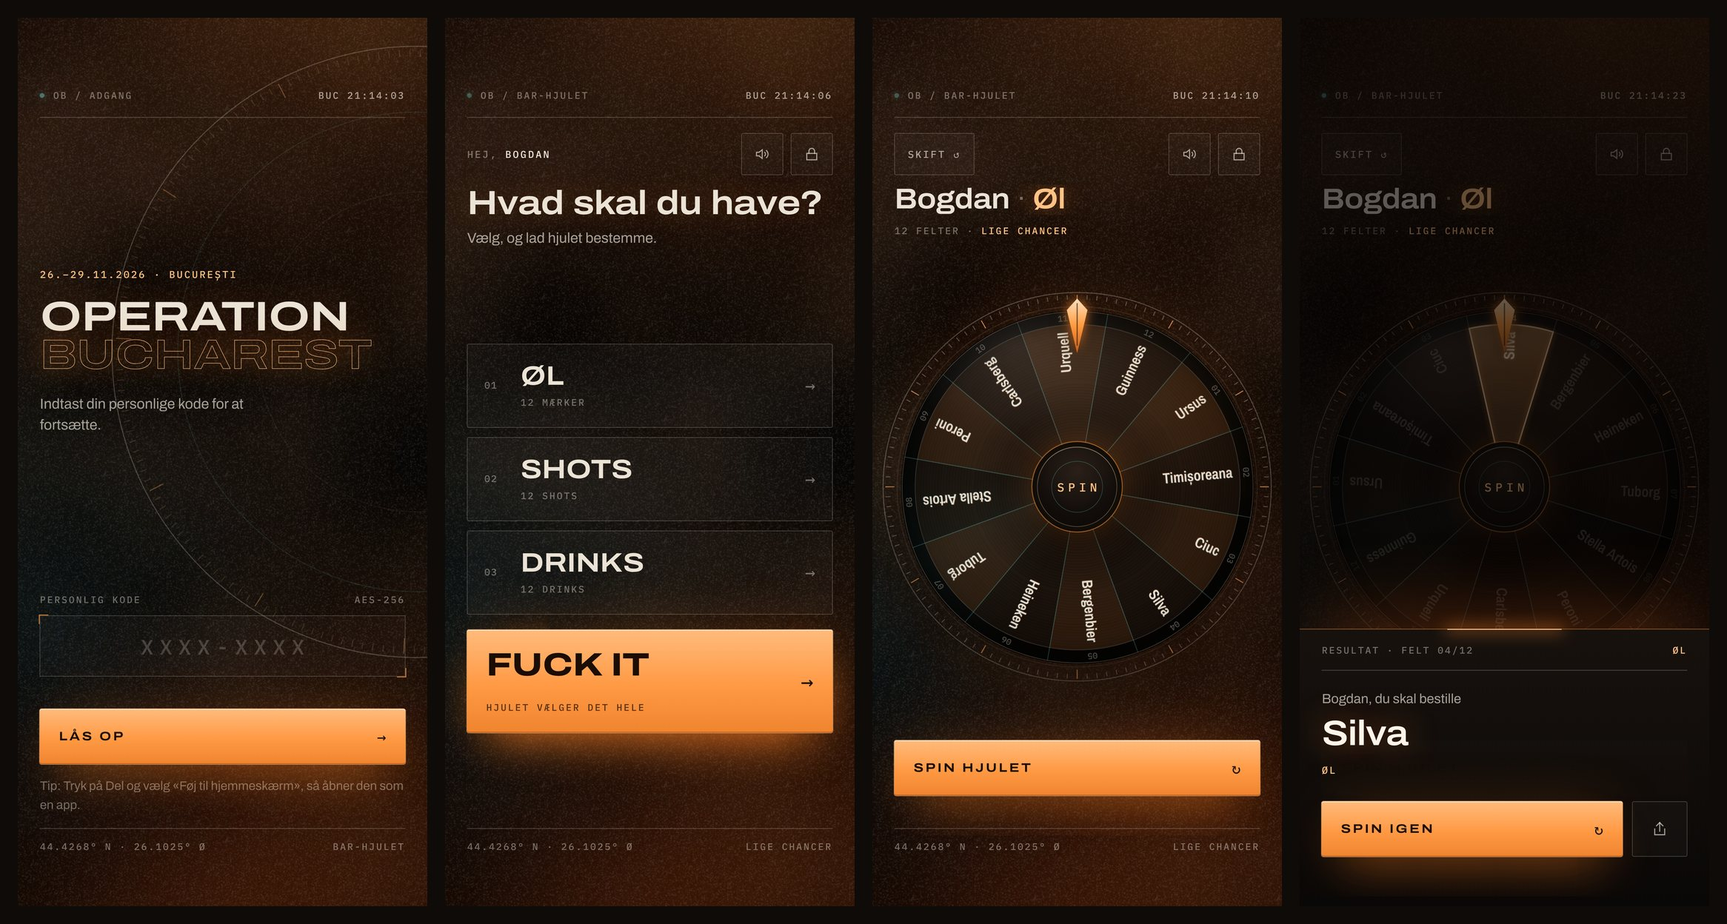
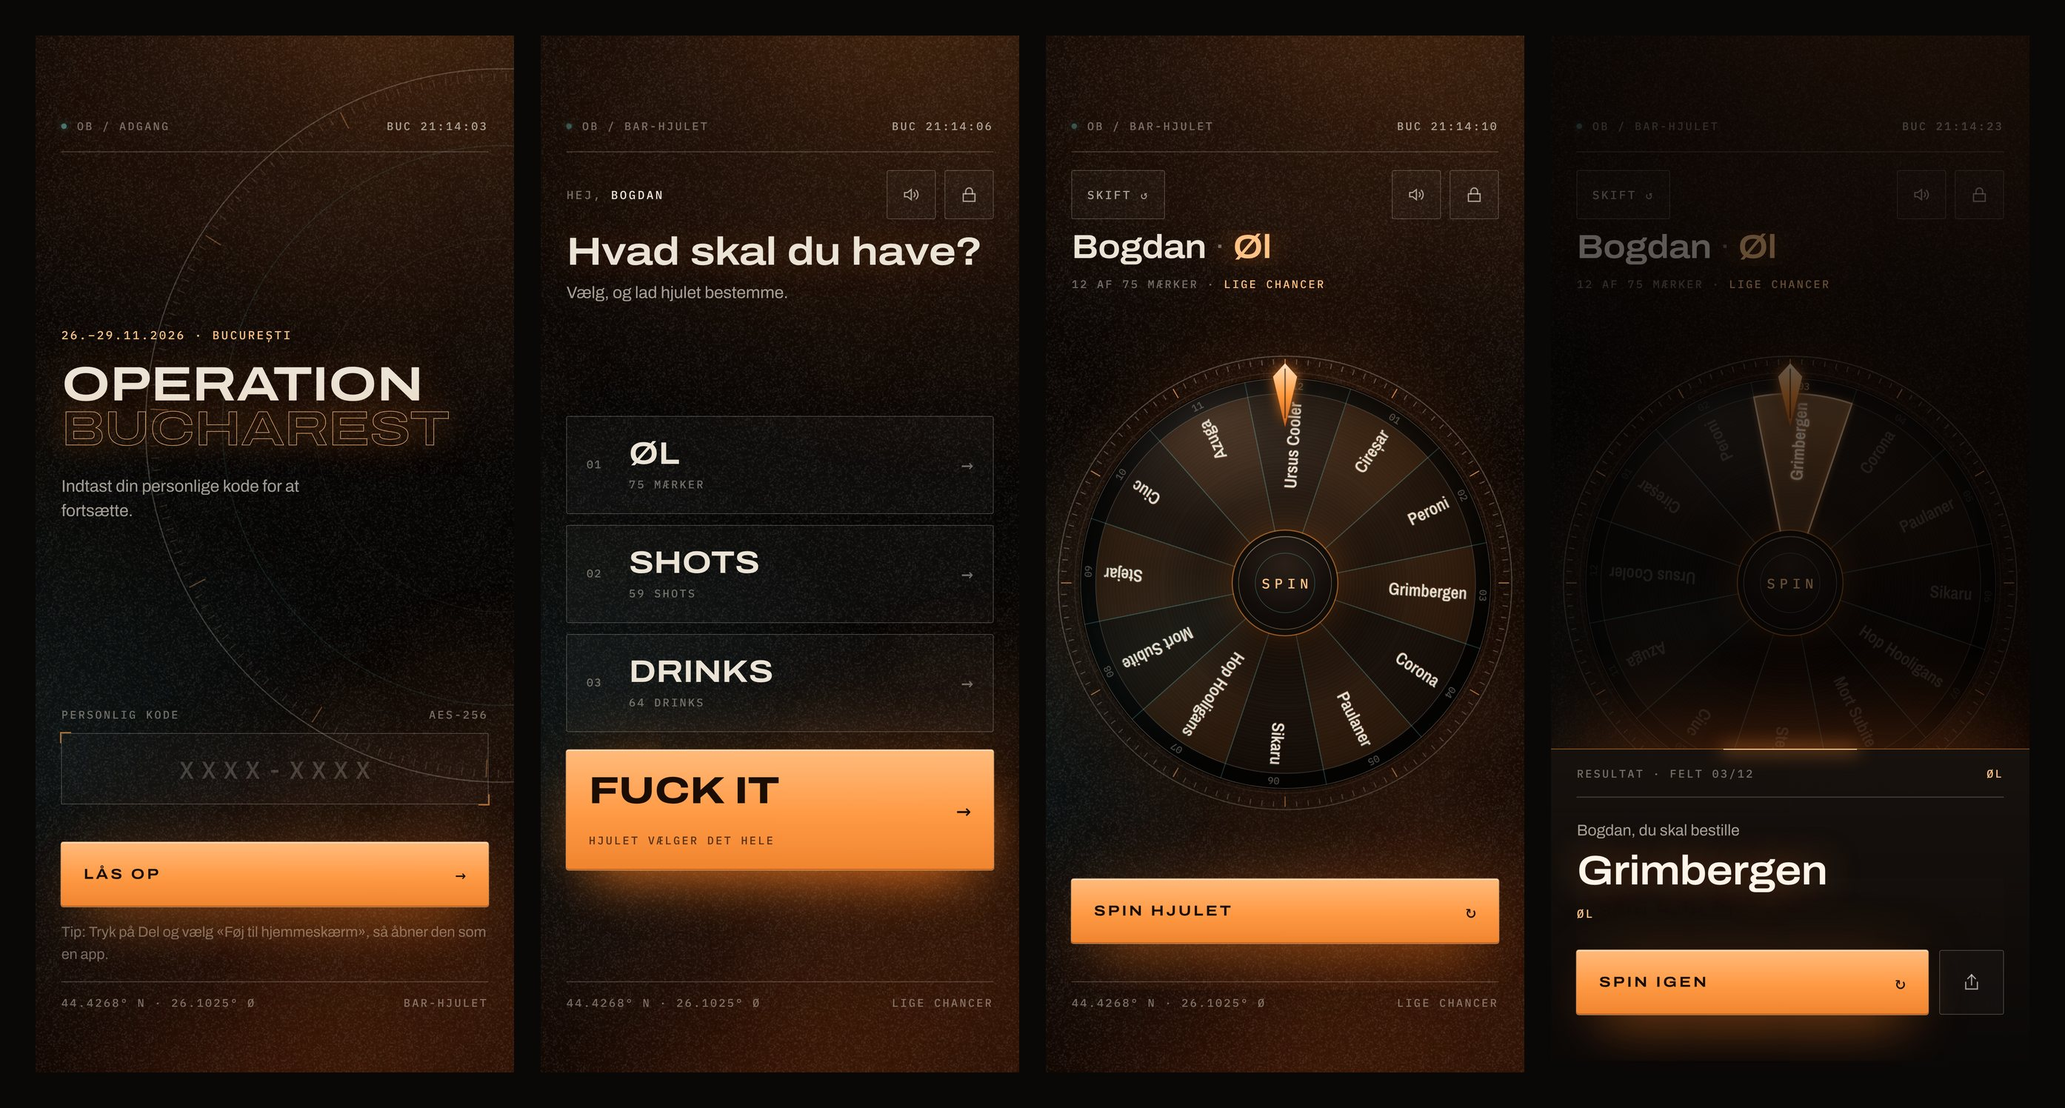
v3: bar wheel draws 12 from each pool (75 beers, 59 shots, 64 drinks)
- menu.js: the three pools from the spec, with perWheel 12 and a unit per
  category; the choice screen counts come from the pool size.
- Every new wheel and every Spin igen draws 12 different items from the
  pool (crypto.getRandomValues), then spins fairly over those 12. Spin igen
  cross-fades the labels (~250 ms) and spins straight away.
- A new wheel avoids that person's last 3 results in the category
  (localStorage ob_hist, per person number).
- Fuck it: stage 2 draws 12 from the chosen category's pool.
- Status line: "12 af 75 mærker · lige chancer".
- OB_SIM console checks: spins(), draws(), fuckit(), wheel().
- Screenshots updated.

Claude-Session: https://claude.ai/code/session_01LwMVCugT5aRpNgCrjQDK6n

diff --git a/index.html b/index.html
@@ -342,6 +342,9 @@
     /* swapping the wheel's contents (Fuck it: category wheel -> item wheel) */
     #wheel { transition: opacity .26s var(--ease), scale .34s var(--ease); }
     #wheel.swap-out { opacity: 0; scale: .86; }
+    /* Spin igen: the old draw fades out over the new one */
+    #wheelSnap { pointer-events: none; opacity: 0; }
+    #wheelSnap.fade { transition: opacity .25s ease; }
     .sr { position: absolute; width: 1px; height: 1px; overflow: hidden; clip: rect(0 0 0 0); white-space: nowrap; }
 
     /* Short screens: give the wheel the room */
@@ -462,6 +465,7 @@
             <div class="halo" id="halo"></div>
             <div class="bezel" id="bezel" aria-hidden="true"></div>
             <canvas class="disc" id="wheel" aria-hidden="true"></canvas>
+            <canvas class="disc" id="wheelSnap" aria-hidden="true" width="0" height="0"></canvas>
             <div class="disc glass"></div>
             <div class="disc shimmer"></div>
             <div class="disc flash"></div>
@@ -514,7 +518,7 @@
       set(k, v) { try { localStorage.setItem(k, v); } catch (e) {} },
       del(k) { try { localStorage.removeItem(k); } catch (e) {} }
     };
-    const KEY_CODE = 'ob_code', KEY_SOUND = 'ob_sound', KEY_MODE = 'ob_mode';
+    const KEY_CODE = 'ob_code', KEY_SOUND = 'ob_sound', KEY_MODE = 'ob_mode', KEY_HIST = 'ob_hist';
     const TAU = Math.PI * 2;
     const mod = (a, n) => ((a % n) + n) % n;
     const pad = (n, l = 2) => String(n).padStart(l, '0');
@@ -524,15 +528,53 @@
     function haptic(p = 10) { try { if (navigator.vibrate) navigator.vibrate(p); } catch (e) {} }
     function rand() { const a = new Uint32Array(1); crypto.getRandomValues(a); return a[0] / 4294967296; }
 
-    // ── Menu (menu.js): the lists; "Fuck it" is a mode that uses all of them ──
+    // ── Menu (menu.js): one pool per category; "Fuck it" is a mode that uses all of them ──
     const item = x => typeof x === 'string' ? { name: x, wheel: x } : { name: String(x.name), wheel: String(x.wheel || x.name) };
     const MODES = (M && Array.isArray(M.modes) ? M.modes : []).map(m => {
-      const items = (m.items || []).map(item), sub = String(m.sub || '');
-      return { id: String(m.id), name: String(m.name), items, sub: /^\d+/.test(sub) ? sub.replace(/^\d+/, items.length) : `${items.length} ${sub}`.trim() };
+      const items = (m.items || []).map(item);
+      return { id: String(m.id), name: String(m.name), items, sub: `${items.length} ${String(m.unit || '')}`.trim() };   // "75 mærker"
     });
     const FUCKIT = { id: 'fuckit', name: 'Fuck it' };
     const PEOPLE = (M && M.people) || 5;
+    const PER = Math.max(2, Math.min(16, Math.round(Number(M && M.perWheel)) || 12));   // slices per wheel
     const catItems = () => MODES.map(m => ({ name: m.name, wheel: m.name }));
+
+    // ── Fair draws (crypto.getRandomValues) ──
+    const pickSlice = n => Math.floor(rand() * n);                       // every slice equally likely
+    function landing(idx, n, from, turns) {                              // a stop well inside slice idx (0.18–0.82 of it)
+      const seg = 360 / n, p = (idx + .18 + rand() * .64) * seg;
+      return from + 360 * turns + mod(-p - from, 360);
+    }
+    const sliceUnder = (r, n) => Math.floor(mod(-r, 360) / (360 / n)) % n;
+    function sample(list, k) {                                           // k different items, in random order
+      const a = list.slice(); k = Math.min(k, a.length);
+      for (let i = 0; i < k; i++) { const j = i + Math.floor(rand() * (a.length - i)); [a[i], a[j]] = [a[j], a[i]]; }
+      return a.slice(0, k);
+    }
+    // The 12 slices for one wheel: drawn from the pool, skipping the names in `avoid` where the pool allows it.
+    // A pool of 12 or fewer is shown whole, in menu order.
+    function drawFrom(m, avoid = []) {
+      if (m.items.length <= PER) return m.items;
+      const fresh = m.items.filter(x => !avoid.includes(x.name));
+      if (fresh.length >= PER) return sample(fresh, PER);
+      return sample(fresh.concat(sample(m.items.filter(x => avoid.includes(x.name)), PER - fresh.length)), PER);
+    }
+    // This person's last 3 results per category (localStorage, so a new wheel avoids them)
+    function readHist() {
+      try { const h = JSON.parse(store.get(KEY_HIST) || '{}'); return h && typeof h === 'object' && !Array.isArray(h) ? h : {}; }
+      catch (e) { return {}; }
+    }
+    function lastNames(catId) {
+      const me = player && readHist()[player.p], l = me && me[catId];
+      return Array.isArray(l) ? l.filter(x => typeof x === 'string').slice(0, 3) : [];
+    }
+    function remember(catId, name) {
+      if (!player) return;
+      const h = readHist(), me = h[player.p] && typeof h[player.p] === 'object' && !Array.isArray(h[player.p]) ? h[player.p] : {};
+      me[catId] = [name, ...lastNames(catId).filter(x => x !== name)].slice(0, 3);
+      h[player.p] = me; store.set(KEY_HIST, JSON.stringify(h));
+    }
+    const drawItems = m => drawFrom(m, lastNames(m.id));
 
     // ── Bucharest clock: just a readout ──
     let clockFmt = null;
@@ -747,9 +789,9 @@
 
     // ── Wheel ──
     let player = null, mode = null, fkCat = null, wheelKind = 'items', places = [], N = 0, SEG = 0;
-    let rot = 0, busy = false, highlight = -1, lastResult = null, raf = 0, resultTimer = 0, runId = 0;
+    let rot = 0, busy = false, highlight = -1, lastResult = null, raf = 0, resultTimer = 0, runId = 0, spent = false;
     const recent = [];
-    const canvas = $('wheel'), ctx = canvas.getContext('2d'), stage = $('stage'), halo = $('halo');
+    const canvas = $('wheel'), ctx = canvas.getContext('2d'), stage = $('stage'), halo = $('halo'), snap = $('wheelSnap');
     const LABEL_FONT = s => `600 ${s}px "Archivo Narrow", "Arial Narrow", sans-serif`;
     const MONO_FONT = s => `500 ${s}px "IBM Plex Mono", ui-monospace, monospace`;
     const GEO = { hub: .235, labelIn: .262, labelOut: .885, band: .925 };
@@ -909,7 +951,7 @@
       }
     }
 
-    function sliceAt(r) { return Math.floor(mod(-r, 360) / SEG) % N; }
+    function sliceAt(r) { return sliceUnder(r, N); }
 
     // Heavy motion: slow wind-up, long glide out (cubic-bezier .3, 0, .08, 1)
     function bezier(x1, y1, x2, y2) {
@@ -931,10 +973,24 @@
 
     // Put a list on the wheel (any count; the label fit is recomputed for the new list)
     function setWheel(items, kind) {
-      places = items; N = places.length; SEG = 360 / N; wheelKind = kind; layout = null;
+      places = items; N = places.length; SEG = 360 / N; wheelKind = kind; layout = null; spent = false;
       highlight = -1; stage.classList.remove('won');
       stage.dataset.kind = kind;
       drawWheel();
+    }
+    // A new draw of items: the old wheel fades out over the new one, so the labels cross-fade (~250 ms)
+    async function crossfade(items) {
+      const same = items.length === N && items.every((x, i) => x === places[i]);
+      if (same || reducedMQ.matches || !canvas.width) { setWheel(items, 'items'); return; }
+      snap.width = canvas.width; snap.height = canvas.height;
+      snap.getContext('2d').drawImage(canvas, 0, 0);
+      snap.style.transform = canvas.style.transform;
+      snap.classList.remove('fade'); snap.style.opacity = '1';
+      setWheel(items, 'items');
+      void snap.offsetWidth;
+      snap.classList.add('fade'); snap.style.opacity = '0';
+      await wait(260);
+      snap.classList.remove('fade'); snap.width = snap.height = 0;
     }
     // Same, with a short fade/zoom (about 0.6 s)
     async function swapWheel(items, kind) {
@@ -959,9 +1015,8 @@
         const reduced = reducedMQ.matches;
         highlight = -1; stage.classList.remove('won'); drawWheel();
         stage.classList.add('spinning'); SFX.whoosh(); SFX.droneStart();
-        const idx = Math.floor(rand() * N);                     // fair: every slice equally likely
-        const p = (idx + .18 + rand() * .64) * SEG;              // landing point, well inside the slice
-        const start = rot, end = rot + 360 * turns + mod(-p - rot, 360);
+        const idx = pickSlice(N);                                // fair: every slice equally likely
+        const start = rot, end = landing(idx, N, rot, turns);    // stops well inside that slice
         const t0 = performance.now(), ease = reduced ? (t => 1 - Math.pow(1 - t, 3)) : EASE;
         let lastB = Math.floor(start / SEG), lastTick = 0, lastRot = start, lastT = t0;
         function frame(nowT) {
@@ -1003,13 +1058,14 @@
           toast(`→ ${fkCat.name}`, 1800);
           renderHead();
           await wait(reduced ? 250 : 650); if (id !== runId) return;
-          // Stage 2: that category's items, spun by itself
-          await swapWheel(fkCat.items, 'items'); if (id !== runId) return;
+          // Stage 2: 12 drawn from that category's pool, spun by itself
+          await swapWheel(drawItems(fkCat), 'items'); if (id !== runId) return;
           renderHead();
           const ii = await spinWheel(reduced ? 1500 : 5600 + rand() * 1000, reduced ? 1 : 3 + Math.floor(rand() * 2), id);
           if (id !== runId) return;
           done(ii, fkCat, true);
         } else {
+          if (spent) { await crossfade(drawItems(mode)); if (id !== runId) return; }   // never the same 12 twice
           const ii = await spinWheel(reduced ? 1500 : 7000 + rand() * 1200, reduced ? 1 : 4 + Math.floor(rand() * 2), id);
           if (id !== runId) return;
           done(ii, mode, false);
@@ -1018,9 +1074,10 @@
     }
 
     function done(idx, cat, fk) {
-      highlight = idx; drawWheel(); pulse();
+      highlight = idx; spent = true; drawWheel(); pulse();
       SFX.win(); haptic([20, 40, 20]);
       lastResult = { idx, n: N, place: places[idx], cat: cat.name, fk };
+      remember(cat.id, places[idx].name);
       recent.unshift(`${places[idx].name} (${cat.name})`); if (recent.length > 3) recent.pop();
       renderRecent();
       resultTimer = setTimeout(showResult, reducedMQ.matches ? 250 : 950);
@@ -1063,9 +1120,12 @@
       $('today').innerHTML = `<span class="d">${esc(player.n)}</span><span class="sep">·</span><span class="c">${esc(label)}</span>`;
       $('today').setAttribute('aria-label', `${player.n} · ${label}`);
       document.title = `${label} – Operation Bucharest`;
+      const cat = mode.id === FUCKIT.id ? fkCat : mode;
+      const k = cat && Math.min(PER, cat.items.length);                    // the item wheel's size, even before Fuck it swaps to it
+      const pool = cat && (cat.items.length > k ? `${k} af ${cat.sub}` : `${k} felter`);   // "12 af 75 mærker"
       $('status').innerHTML = mode.id === FUCKIT.id
-        ? (fkCat ? `Trin 2 af 2 · <span class="amb">${esc(fkCat.sub)}</span>` : 'Trin 1 af 2 · <span class="amb">hjulet vælger kategori</span>')
-        : `${N} felter · <span class="amb">lige chancer</span>`;
+        ? (fkCat ? `Trin 2 af 2 · <span class="amb">${esc(pool)}</span>` : 'Trin 1 af 2 · <span class="amb">hjulet vælger kategori</span>')
+        : `${esc(pool)} · <span class="amb">lige chancer</span>`;
       fitToday();
     }
 
@@ -1085,7 +1145,7 @@
       if (!m) return;
       closeResult(false);
       mode = m; fkCat = null; store.set(KEY_MODE, m.id);
-      if (m.id === FUCKIT.id) setWheel(catItems(), 'cats'); else setWheel(m.items, 'items');
+      if (m.id === FUCKIT.id) setWheel(catItems(), 'cats'); else setWheel(drawItems(m), 'items');   // a fresh 12 each time
       renderHead();
       go('wheel');
       requestAnimationFrame(() => { layout = null; drawWheel(); fitToday(); });
@@ -1142,6 +1202,8 @@
       haptic();
       runId++; cancelAnimationFrame(raf);
       stage.classList.remove('spinning', 'won'); canvas.classList.remove('swap-out'); halo.style.opacity = '';
+      snap.classList.remove('fade'); snap.style.opacity = '0'; snap.width = snap.height = 0;
+      try { snap.getAnimations().forEach(a => a.cancel()); } catch (e) {}
       SFX.droneStop(true); setBusy(false);
       store.del(KEY_CODE);
       closeResult(false);
@@ -1149,6 +1211,47 @@
       $('code').value = '';
       go('login');
     }
+
+    // ── Console checks: OB_SIM.spins(1000) · OB_SIM.draws('beer', 20000) · OB_SIM.fuckit(900) ──
+    // Same draw and landing code as the wheel; they keep their own history and change nothing on the page.
+    const chi2 = (counts, e) => +counts.reduce((s, c) => s + (c - e) ** 2 / e, 0).toFixed(1);
+    const cutoff = df => +(df * (1 - 2 / (9 * df) + 3.09 * Math.sqrt(2 / (9 * df))) ** 3).toFixed(1);   // chi² at p = 0.001
+    window.OB_SIM = {
+      wheel() { return { kind: wheelKind, items: places.map(p => p.name), underPointer: N ? places[sliceAt(rot)].name : null }; },
+      spins(n = 1000, slices = PER) {
+        const counts = new Array(slices).fill(0); let r = rand() * 360, wrongSlice = 0;
+        for (let i = 0; i < n; i++) {
+          const idx = pickSlice(slices); r = mod(landing(idx, slices, r, 4), 360);
+          if (sliceUnder(r, slices) !== idx) wrongSlice++;
+          counts[idx]++;
+        }
+        console.table(counts.map((c, i) => ({ felt: i + 1, gange: c })));
+        return { spins: n, slices, expected: n / slices, min: Math.min(...counts), max: Math.max(...counts), chi2: chi2(counts, n / slices), cutoff: cutoff(slices - 1), wrongSlice };
+      },
+      draws(id = 'beer', n = 20000) {
+        const m = MODES.find(x => x.id === id);
+        if (!m) return 'Kategorier: ' + MODES.map(x => x.id).join(', ');
+        const seen = new Map(m.items.map(x => [x.name, 0])), k = Math.min(PER, m.items.length);
+        let last = [], bad = 0;
+        for (let i = 0; i < n; i++) {
+          const names = drawFrom(m, last).map(x => x.name);
+          if (names.length !== k || new Set(names).size !== k || (m.items.length - last.length >= PER && names.some(x => last.includes(x)))) bad++;
+          names.forEach(x => seen.set(x, seen.get(x) + 1));
+          last = [names[pickSlice(k)], ...last].slice(0, 3);             // a spin on that wheel, as in real use
+        }
+        const counts = [...seen.values()], e = n * k / m.items.length;
+        console.table([...seen].map(([name, c]) => ({ name, gange: c })));
+        return { draws: n, pool: m.items.length, perWheel: k, expected: +e.toFixed(1), min: Math.min(...counts), max: Math.max(...counts),
+          allAppear: counts.every(c => c > 0), badDraws: bad, chi2: chi2(counts, e), cutoff: cutoff(m.items.length - 1) };
+      },
+      fuckit(n = 900) {
+        const cats = new Array(MODES.length).fill(0);
+        for (let i = 0; i < n; i++) cats[pickSlice(MODES.length)]++;      // stage 1: the category wheel
+        const out = Object.fromEntries(MODES.map((m, i) => [m.name, cats[i]]));
+        console.table(out);
+        return { runs: n, ...out, expected: +(n / MODES.length).toFixed(1), chi2: chi2(cats, n / MODES.length), cutoff: cutoff(MODES.length - 1) };
+      }
+    };
 
     // ── Wire up ──
     $('ghost').innerHTML = ringSVG({ ticks: 180, every: 15, len: 2.2, majorLen: 5, minor: 'rgba(255,190,140,.16)', major: 'rgba(255,170,100,.4)', inner: [[78, 'rgba(116,212,207,.12)'], [52, 'rgba(235,227,213,.06)']] });

diff --git a/menu.js b/menu.js
@@ -1,29 +1,69 @@
-/* Operation Bucharest – Bar-hjulet: hvad hjulet kan lande på.
-   Almindelig kode, ingen hemmeligheder. Ret listerne her.
-   Et punkt er enten et navn, eller { name, wheel } hvor "wheel" er en kortere tekst til hjulet.
-   Resultatet viser altid det fulde navn. Hver liste kan have 6–16 punkter.
-   Tallet i "sub" regnes ud fra listen, så det passer altid.
-   "Fuck it" er ikke en liste: den bruger alle kategorierne herunder. */
 window.OB_MENU = {
   people: 5,
   tripLabel: '26.–29.11.2026 · București',   // static line on the login screen
+  perWheel: 12,                              // slices drawn from each pool per wheel
   modes: [
-    { id: 'beer', name: 'Øl', sub: '12 mærker', items: [
-      'Ursus', 'Timișoreana', 'Ciuc', 'Silva', 'Bergenbier',          // 🇷🇴 the big Romanian lagers
-      'Heineken', 'Tuborg', 'Stella Artois', 'Peroni', 'Carlsberg',
-      { name: 'Pilsner Urquell', wheel: 'Urquell' }, 'Guinness'
+    { id: 'beer', name: 'Øl', unit: 'mærker', items: [
+      // Big Romanian lagers
+      'Ursus', 'Timișoreana', 'Ciuc', 'Silva', 'Bergenbier', 'Stejar',
+      // Romanian everyday lagers
+      'Ciucaș', 'Bucegi', 'Golden Brau', 'Neumarkt', 'Azuga', 'Noroc', 'Gambrinus', 'Albacher', 'Bürger',
+      // Romanian variants
+      'Silva Dark', { name: 'Ursus Black Grizzly', wheel: 'Black Grizzly' }, { name: 'Ursus Nefiltrată', wheel: 'Ursus Nefiltr.' },
+      { name: 'Ursus Retro Carpatin', wheel: 'Ursus Retro' }, { name: 'Ursus Cireșar', wheel: 'Cireșar' }, 'Ursus Cooler',
+      { name: 'Timișoreana Nepasteurizată', wheel: 'Timi Nepast.' }, { name: 'Ciucaș Malzbier', wheel: 'Malzbier' }, { name: 'Azuga Weissbier', wheel: 'Azuga Weiss' }, 'Ciuc Radler',
+      // Romanian craft
+      'Hop Hooligans', 'Ground Zero', 'Zăganu', 'Sikaru', 'Bereta', 'Grivița', 'Nenea Iancu',
+      // International brands sold in Romania
+      'Heineken', 'Tuborg', 'Stella Artois', 'Peroni', 'Carlsberg', { name: 'Pilsner Urquell', wheel: 'Urquell' }, 'Guinness',
+      "Beck's", 'Staropramen', 'Amstel', 'Skol', 'Holsten', 'Kozel', 'Grolsch', 'Grolsch Weizen', 'Efes', "Redd's",
+      'St. Stefanus', 'Asahi', 'Budweiser', 'Leffe', 'Paulaner', 'Löwenbräu', 'Grimbergen', 'Delirium',
+      // Common elsewhere in Europe
+      'Hoegaarden', 'Erdinger', 'Franziskaner', { name: 'Weihenstephaner', wheel: 'Weihenst.' }, 'Warsteiner', 'Bitburger',
+      { name: 'Kronenbourg 1664', wheel: '1664' }, { name: 'Birra Moretti', wheel: 'Moretti' }, 'Corona', 'Desperados',
+      'Krušovice', 'Duvel', 'Chimay', 'Kilkenny', { name: 'Mort Subite Kriek', wheel: 'Mort Subite' },
+      { name: 'Estrella Damm', wheel: 'Estrella' }, 'San Miguel', 'Affligem'
     ] },
-    { id: 'shots', name: 'Shots', sub: '12 shots', items: [
-      'Jägermeister', { name: 'Tequila (salt & lime)', wheel: 'Tequila' }, 'Sambuca',
-      'Vodka', 'B-52', 'Kamikaze', 'Jägerbomb',
-      'Pălincă', 'Țuică', 'Vișinată',                                  // 🇷🇴 local spirits/liqueur
-      { name: 'Whiskey (Jameson)', wheel: 'Whiskey' }, 'Absinth'
+    { id: 'shots', name: 'Shots', unit: 'shots', items: [
+      // Classics
+      'Jägermeister', { name: 'Tequila (salt & lime)', wheel: 'Tequila' }, 'Sambuca', 'Vodka', 'B-52', 'Kamikaze', 'Jägerbomb',
+      { name: 'Whiskey (Jameson)', wheel: 'Whiskey' }, 'Absinth',
+      // Romanian and local
+      'Pălincă', 'Țuică', 'Vișinată', 'Horincă', 'Rachiu', 'Afinată', 'Alexandrion',
+      // Europe, regional favourites
+      'Rakija', 'Slivovitz', 'Unicum', 'Becherovka', 'Ouzo', 'Grappa', 'Limoncello', 'Licor 43', 'Amaretto',
+      { name: 'Fernet-Branca', wheel: 'Fernet' }, 'Metaxa', 'Aquavit',
+      // Straight spirits and liqueurs
+      'Tequila Gold', 'Mezcal', 'Bacardi', 'Captain Morgan', 'Havana Club', 'Gin', "Jack Daniel's", 'Jim Beam',
+      { name: 'Southern Comfort', wheel: 'SoCo' }, 'Cognac', 'Baileys', 'Fireball', 'Malibu', 'Kahlúa', 'Cointreau',
+      { name: 'Green Chartreuse', wheel: 'Chartreuse' }, 'Sourz',
+      // Mixed and layered shots
+      { name: 'Slippery Nipple', wheel: 'Slippery Nip.' }, 'Baby Guinness', 'Lemon Drop', { name: 'Brain Hemorrhage', wheel: 'Brain Hem.' }, { name: 'Tequila Slammer', wheel: 'Teq. Slammer' },
+      { name: 'Flaming Sambuca', wheel: 'Flaming Samb.' }, 'Pickleback', { name: 'Washington Apple', wheel: 'Wash. Apple' },
+      'Green Tea Shot', { name: 'Alabama Slammer', wheel: 'Alabama Sl.' }, 'Oatmeal Cookie', 'Duck Fart', 'Mexican Flag',
+      'Mind Eraser'
     ] },
-    { id: 'drinks', name: 'Drinks', sub: '12 drinks', items: [
+    { id: 'drinks', name: 'Drinks', unit: 'drinks', items: [
+      // Core
       'Gin & Tonic', 'Aperol Spritz', 'Hugo', 'Mojito', 'Cuba Libre', 'Moscow Mule',
       { name: 'Whiskey & Cola', wheel: 'Whiskey Cola' }, { name: 'Vodka Red Bull', wheel: 'Vodka RB' },
-      { name: 'Long Island Iced Tea', wheel: 'Long Island' }, 'Negroni',
-      'Espresso Martini', 'Margarita'
+      { name: 'Long Island Iced Tea', wheel: 'Long Island' }, 'Negroni', 'Espresso Martini', 'Margarita',
+      // Romanian and seasonal
+      { name: 'Șpriț (wine + soda)', wheel: 'Șpriț' }, { name: 'Vin fiert (mulled wine)', wheel: 'Vin fiert' },
+      // Classics
+      'Old Fashioned', 'Whiskey Sour', 'Amaretto Sour', 'Pisco Sour', 'Daiquiri', 'Piña Colada', 'Caipirinha', 'Caipiroska',
+      { name: 'Sex on the Beach', wheel: 'Sex on Beach' }, { name: 'Cosmopolitan', wheel: 'Cosmo' },
+      { name: 'Pornstar Martini', wheel: 'Pornstar' }, 'Bloody Mary', 'Tom Collins', "Dark 'n' Stormy", 'Paloma',
+      { name: 'Tequila Sunrise', wheel: 'Teq. Sunrise' }, 'Screwdriver', 'White Russian', 'Black Russian', 'Mai Tai',
+      'Zombie', 'Manhattan', 'Dry Martini', 'Mojito Royale',
+      // Spritz and bubbles
+      'Campari Spritz', { name: 'Limoncello Spritz', wheel: 'Limon. Spritz' }, 'Kir Royal', 'Bellini', 'Mimosa', 'French 75',
+      // Bartender favourites
+      'Americano', 'Boulevardier', 'Sidecar', 'Gin Fizz', 'Bramble', 'Clover Club',
+      { name: 'Gin Basil Smash', wheel: 'Basil Smash' }, 'Penicillin', 'Paper Plane', 'Sazerac', 'Mint Julep',
+      { name: 'Singapore Sling', wheel: 'Singapore' }, 'Godfather', 'Rusty Nail',
+      // Simple long drinks
+      { name: 'Vodka Soda Lime', wheel: 'Vodka Soda' }, 'Rum & Ginger', 'Jäger Tonic', 'Blue Lagoon', 'Irish Coffee', 'Hot Toddy'
     ] }
   ]
 };
